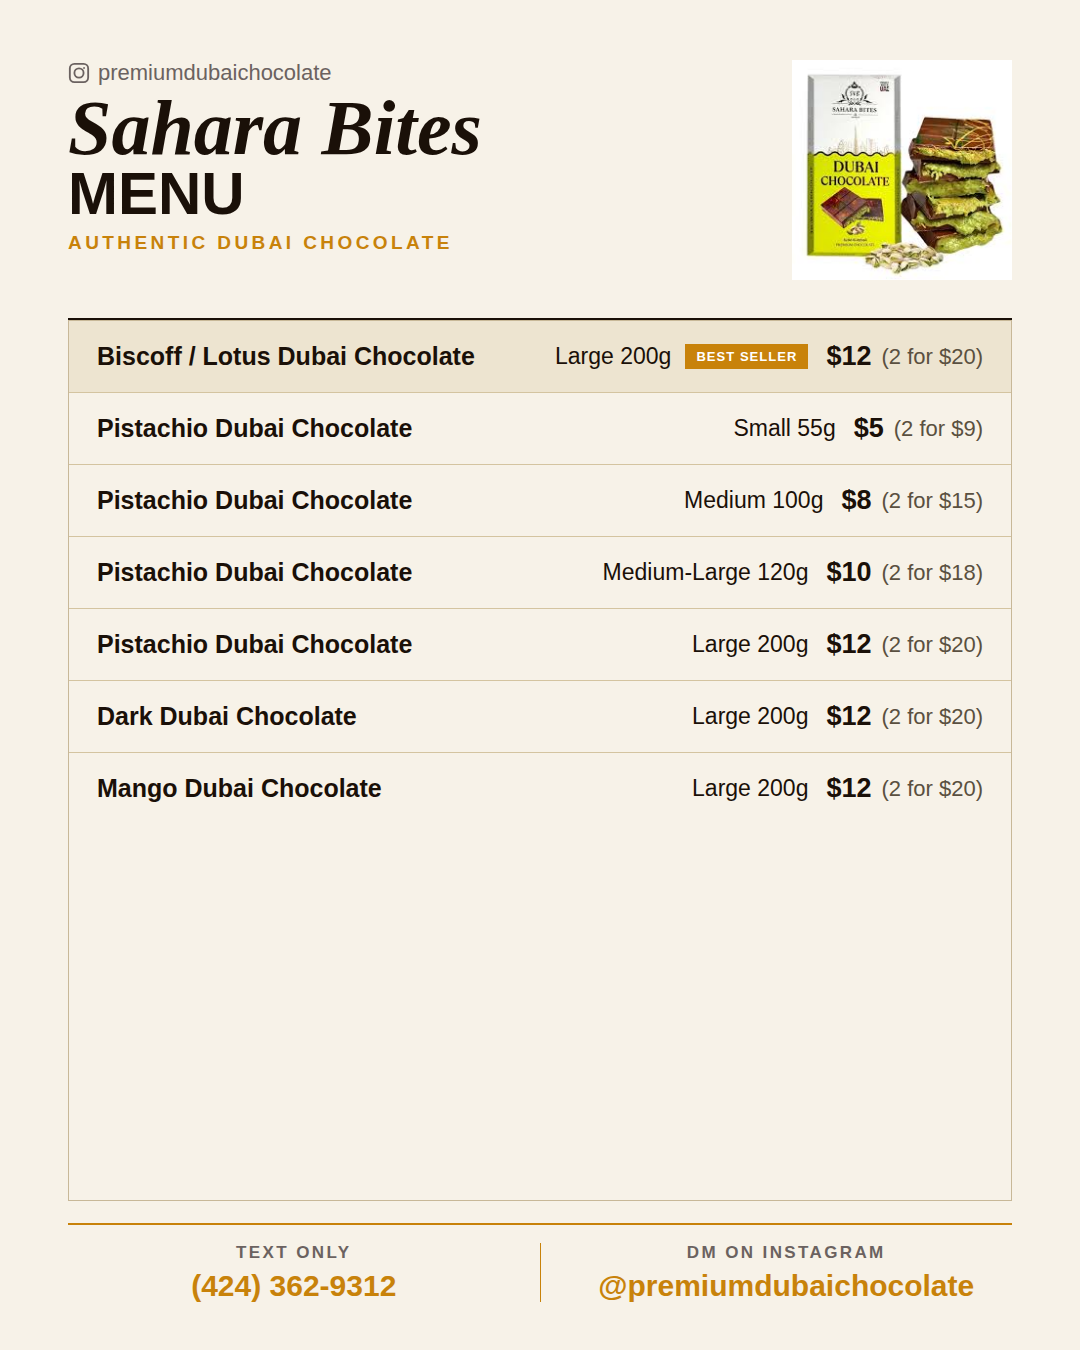
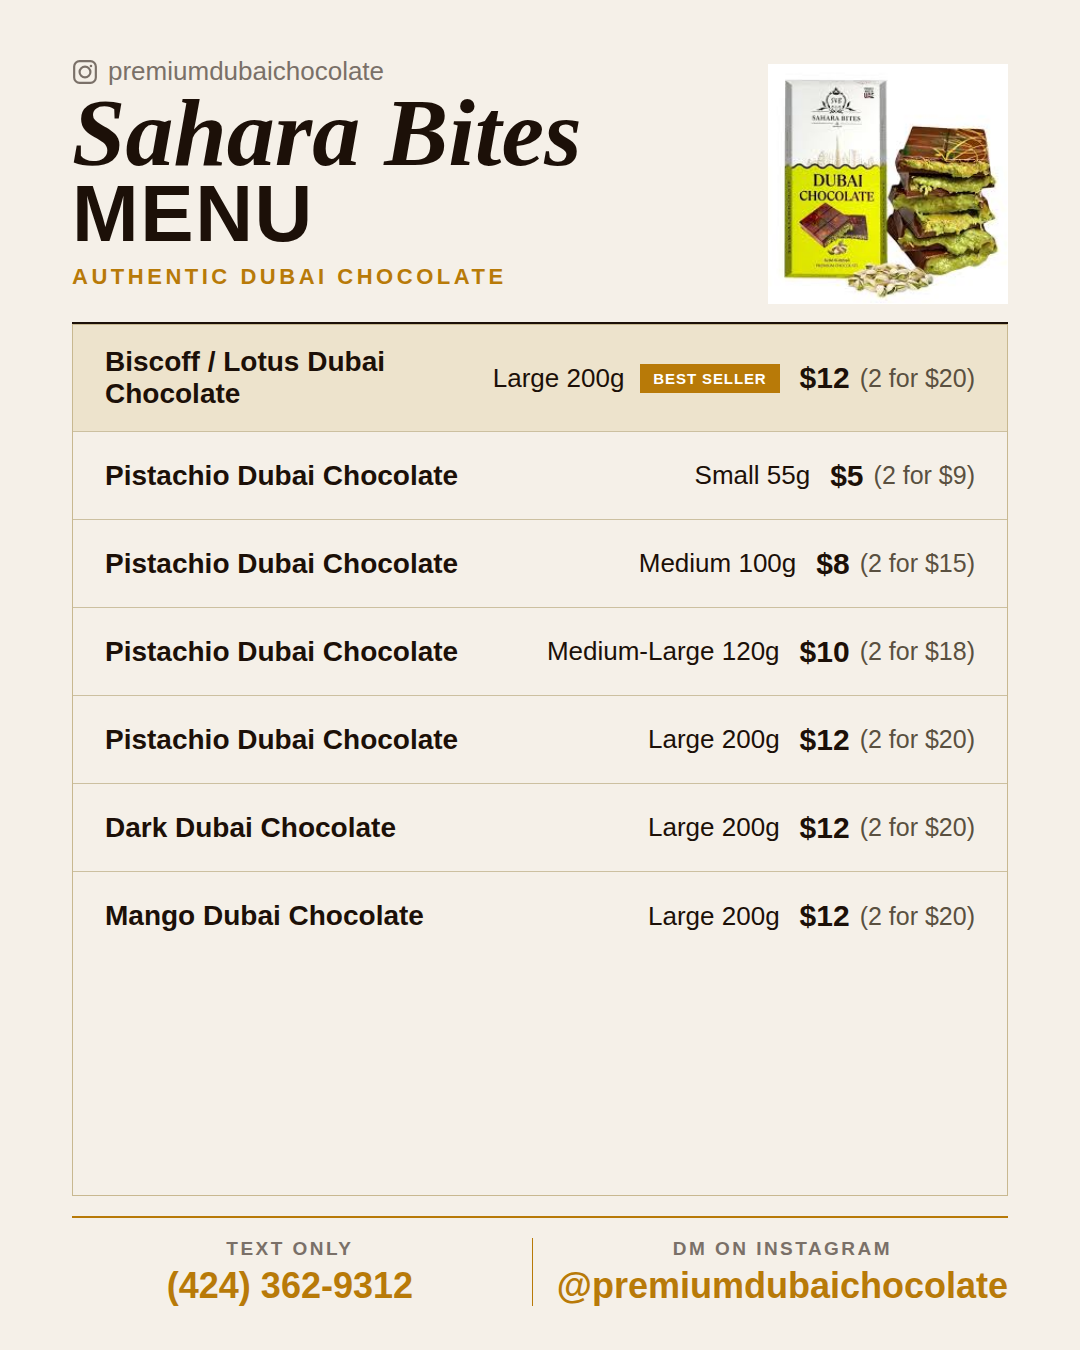
Add Pistachio Small 55g item to menu; match original font sizes
- Added Pistachio Dubai Chocolate Small 55g · $5 · (2 for $9) row
- Restored larger font sizes to match original design (brand-name 96px,
  menu-word 80px, item rows 28-30px) per user feedback that v1 was too small

Claude-Session: https://claude.ai/code/session_01DH5GXKoXpYfiRFx82PrKph

diff --git a/sahara-bites-menu.html b/sahara-bites-menu.html
@@ -11,133 +11,135 @@
 *,*::before,*::after { box-sizing:border-box; margin:0; padding:0; }
 html,body {
   width:100%; height:100%;
-  background:#000;
+  background:#E8E0D0;
   display:flex; justify-content:center; align-items:flex-start;
   overflow:hidden;
 }
 .canvas {
   width:1080px; height:1350px;
-  background:#F7F2E8;
+  background:#F5F0E8;
   position:relative; overflow:hidden;
   transform-origin:top center; flex-shrink:0;
   font-family:'Lato',sans-serif;
-  padding:60px 68px 48px;
+  padding:56px 72px 44px;
   display:flex; flex-direction:column;
 }
 
 /* ── HEADER ── */
 .header {
   display:flex; justify-content:space-between; align-items:flex-start;
-  margin-bottom:20px;
+  margin-bottom:18px;
 }
 .insta-handle {
-  font-size:22px; color:#6B6260;
-  margin-bottom:6px;
-  display:flex; align-items:center; gap:8px;
+  font-size:26px; color:#7A7068;
+  margin-bottom:4px;
+  display:flex; align-items:center; gap:10px;
 }
 .brand-name {
   font-family:'Playfair Display',serif;
   font-style:italic; font-weight:700;
-  font-size:78px; color:#1A1008;
-  line-height:.92;
+  font-size:96px; color:#1C1008;
+  line-height:.88;
 }
 .menu-word {
-  font-size:60px; font-weight:900;
-  color:#1A1008; line-height:1;
+  font-size:80px; font-weight:900;
+  color:#1C1008; line-height:.98;
+  letter-spacing:.02em;
 }
 .authentic {
-  font-size:19px; font-weight:700;
-  letter-spacing:.18em; text-transform:uppercase;
-  color:#C8820A; margin-top:8px;
+  font-size:22px; font-weight:700;
+  letter-spacing:.16em; text-transform:uppercase;
+  color:#B87A08; margin-top:10px;
 }
 .product-photo {
-  width:290px; height:auto;
-  max-height:220px;
+  width:300px; height:auto;
+  max-height:240px;
   object-fit:contain;
   object-position:right top;
+  margin-top:8px;
 }
 
 /* ── DIVIDER ── */
 .divider {
   width:100%; height:2px;
-  background:#1A1008;
-  margin:18px 0 0;
+  background:#1C1008;
+  margin-bottom:0;
 }
 
 /* ── MENU TABLE ── */
 .menu-table {
   flex:1;
-  border:1.5px solid #C8B898;
+  border:1.5px solid #C8B890;
   margin-top:0;
 }
 .menu-row {
   display:flex; align-items:center;
-  padding:20px 28px;
-  border-bottom:1px solid #D4C4A0;
+  padding:21px 32px;
+  border-bottom:1px solid #CCC0A0;
+  min-height:88px;
 }
 .menu-row:last-child { border-bottom:none; }
-.menu-row.highlight { background:#EDE4D0; }
+.menu-row.highlight { background:#EDE3CC; }
 .item-name {
-  font-size:25px; font-weight:700;
-  color:#1A1008; flex:1;
+  font-size:28px; font-weight:700;
+  color:#1C1008; flex:1;
 }
 .item-size {
-  font-size:23px; font-weight:400;
-  color:#1A1008; margin-left:14px;
+  font-size:26px; font-weight:400;
+  color:#1C1008; margin-left:16px;
   white-space:nowrap;
 }
 .best-badge {
-  background:#C8820A; color:#fff;
-  font-size:13px; font-weight:900;
-  letter-spacing:.08em; text-transform:uppercase;
-  padding:5px 11px; margin-left:14px;
+  background:#B87A08; color:#fff;
+  font-size:15px; font-weight:900;
+  letter-spacing:.06em; text-transform:uppercase;
+  padding:6px 13px; margin-left:16px;
   white-space:nowrap;
 }
 .item-price {
-  font-size:27px; font-weight:900;
-  color:#1A1008; margin-left:18px;
+  font-size:30px; font-weight:900;
+  color:#1C1008; margin-left:20px;
   white-space:nowrap;
 }
 .item-deal {
-  font-size:22px; font-weight:400;
+  font-size:25px; font-weight:400;
   color:#5A5040; margin-left:10px;
   white-space:nowrap;
 }
 
 /* ── FOOTER ── */
 .footer {
-  margin-top:22px;
+  padding-top:20px;
+  margin-top:20px;
   display:flex;
-  padding-top:18px;
-  border-top:2.5px solid #C8820A;
+  border-top:2.5px solid #B87A08;
 }
 .footer-col {
   flex:1; text-align:center;
 }
 .footer-col:first-child {
-  border-right:1.5px solid #C8820A;
-  padding-right:20px;
+  border-right:1.5px solid #B87A08;
+  padding-right:24px;
 }
-.footer-col:last-child { padding-left:20px; }
+.footer-col:last-child { padding-left:24px; }
 .footer-label {
-  font-size:17px; font-weight:700;
-  letter-spacing:.14em; text-transform:uppercase;
-  color:#6B6260; margin-bottom:6px;
+  font-size:19px; font-weight:700;
+  letter-spacing:.13em; text-transform:uppercase;
+  color:#7A7068; margin-bottom:6px;
 }
 .footer-value {
-  font-size:30px; font-weight:900;
-  color:#C8820A; line-height:1.1;
+  font-size:36px; font-weight:900;
+  color:#B87A08; line-height:1.1;
 }
 </style>
 </head>
 <body>
 <div class="canvas">
 
-  <!-- HEADER -->
   <div class="header">
     <div>
       <div class="insta-handle">
-        <svg width="22" height="22" viewBox="0 0 24 24" fill="none" stroke="#6B6260" stroke-width="2"><rect x="2" y="2" width="20" height="20" rx="5"/><circle cx="12" cy="12" r="5"/><circle cx="17.5" cy="6.5" r="1" fill="#6B6260" stroke="none"/></svg>
+        <svg width="26" height="26" viewBox="0 0 24 24" fill="none" stroke="#7A7068" stroke-width="2"><rect x="2" y="2" width="20" height="20" rx="5"/><circle cx="12" cy="12" r="5"/><circle cx="17.5" cy="6.5" r="1.2" fill="#7A7068" stroke="none"/></svg>
         premiumdubaichocolate
       </div>
       <div class="brand-name">Sahara Bites</div>
@@ -149,7 +151,6 @@ html,body {
 
   <div class="divider"></div>
 
-  <!-- MENU ITEMS -->
   <div class="menu-table">
 
     <div class="menu-row highlight">
@@ -204,7 +205,6 @@ html,body {
 
   </div>
 
-  <!-- FOOTER -->
   <div class="footer">
     <div class="footer-col">
       <div class="footer-label">Text Only</div>
